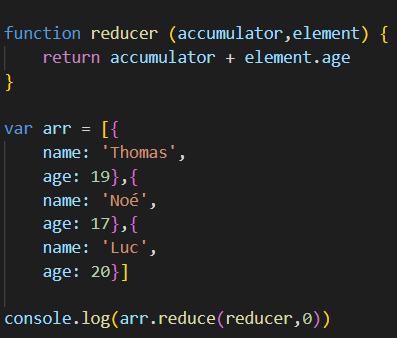
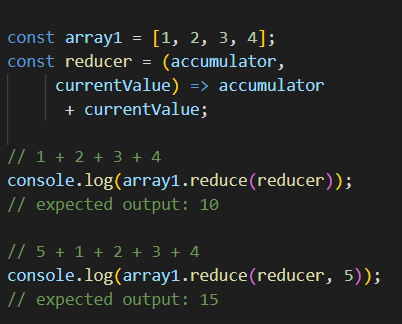
Done with Fifth Assignment

diff --git a/pages/StudyingMaterial.html b/pages/StudyingMaterial.html
@@ -8,7 +8,7 @@
 <link href="https://fonts.googleapis.com/css?family=Libre+Franklin&display=swap" rel="stylesheet">
 <link href='https://fonts.googleapis.com/css?family=Hind Siliguri' rel='stylesheet'>
 <link href='https://fonts.googleapis.com/css?family=Kavoon' rel='stylesheet'>
-<link rel="stylesheet" type="text/css" href="/css/index.css" media="screen" />
+<link rel="stylesheet" type="text/css" href="/css/index.css" media="screen"/>
 
 <!-- Navbar-->
 <header class="topnav">
@@ -38,7 +38,7 @@
             <!-- Blog entry -->
             <div class="w3-card-4 w3-margin w3-white">
                 <div class="resp-container">
-                    <iframe class="resp-iframe" src="https://www.youtube.com/embed/zBB8vFG5zls" frameborder="0"
+                    <iframe class="resp-iframe" src="https://www.youtube.com/embed/gQdwzo31pmw" frameborder="0"
                         allow="accelerometer; autoplay; encrypted-media; gyroscope; picture-in-picture"
                         allowfullscreen></iframe>
                 </div>
@@ -103,6 +103,13 @@
                     <img src="/pages/pictures/StudyingMaterial/3Some.png" alt="Ex3.5" style=" width:45%">
                     <p>ForEach - apply the function to each array element</p>
                     <img src="/pages/pictures/StudyingMaterial/3ForEach.png" alt="Ex3.6" style=" width:45%">
+                    <p>Reduce - this method executes a reducer function (that you provide) on each element of the array.
+                        It also has an accumulator(result) that accumulates callback's return values. If the accumulator
+                        isn't stated it's equal to the 0 element of the array. The result is a single output value.</p>
+                    <img src="/pages/pictures/StudyingMaterial/3Reduce.png" alt="Ex3.7" style=" width:45%">
+                    <p>IndexOf - method returns the first index at which a given element can be found in the array, or
+                        -1 if it is not present.</p>
+                    <img src="/pages/pictures/StudyingMaterial/3IndexOf.png" alt="Ex3.8" style=" width:45%">
                 </div>
             </div>
         </div>

diff --git a/index.html b/index.html
@@ -41,6 +41,18 @@
                 <!-- Blog entry -->
                 <div class="w3-card-4 w3-margin w3-white">
                     <div class="resp-container">
+                        <iframe class="resp-iframe" src="https://www.youtube.com/embed/gQdwzo31pmw" frameborder="0"
+                            allow="accelerometer; autoplay; encrypted-media; gyroscope; picture-in-picture"
+                            allowfullscreen></iframe>
+                    </div>
+                    <div class="w3-container">
+                        <h2>This week we're going to talk about Modules, Higher Order Functions and Advanced Array Methods.</h2>
+                        <p>Date posted: <span class="w3-opacity">April 7, 2020</span></p>
+                    </div>
+                </div>
+
+                <div class="w3-card-4 w3-margin w3-white">
+                    <div class="resp-container">
                         <iframe class="resp-iframe" src="https://www.youtube.com/embed/zBB8vFG5zls" frameborder="0"
                             allow="accelerometer; autoplay; encrypted-media; gyroscope; picture-in-picture"
                             allowfullscreen></iframe>
